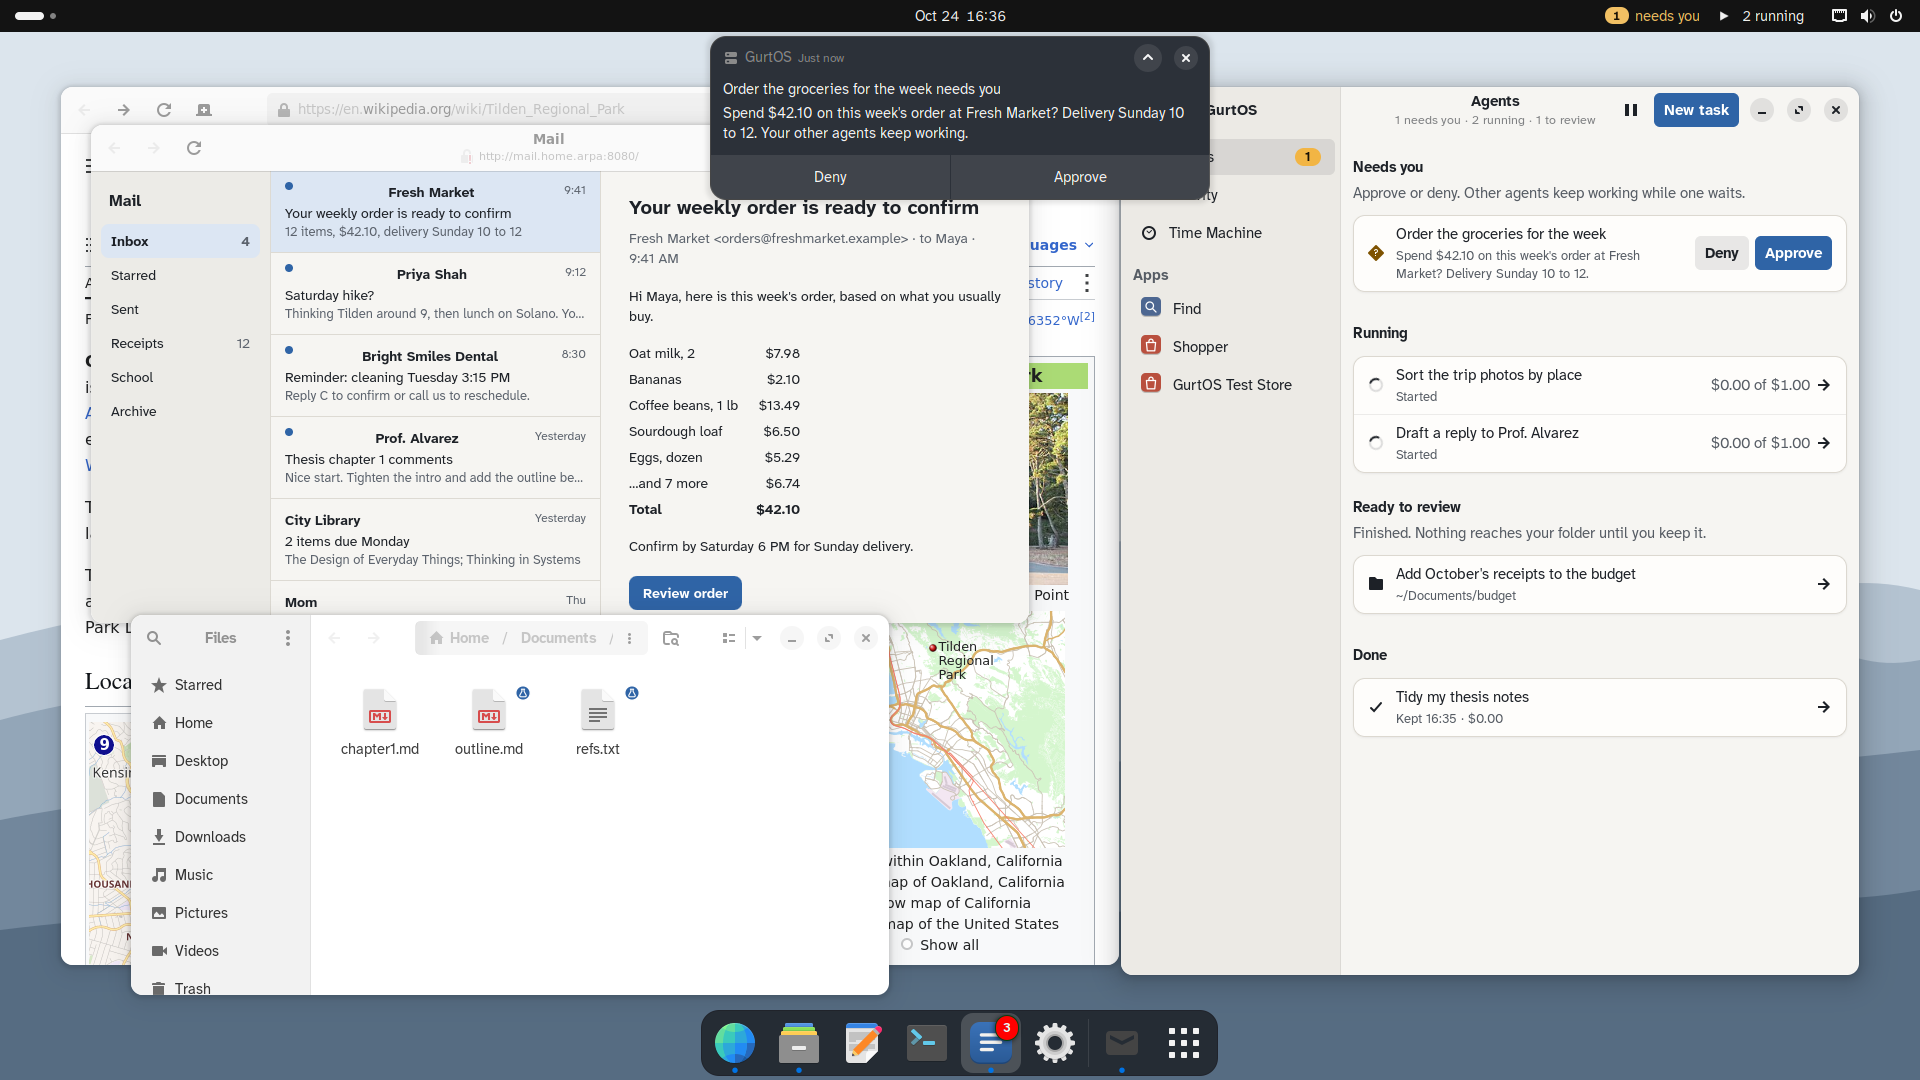
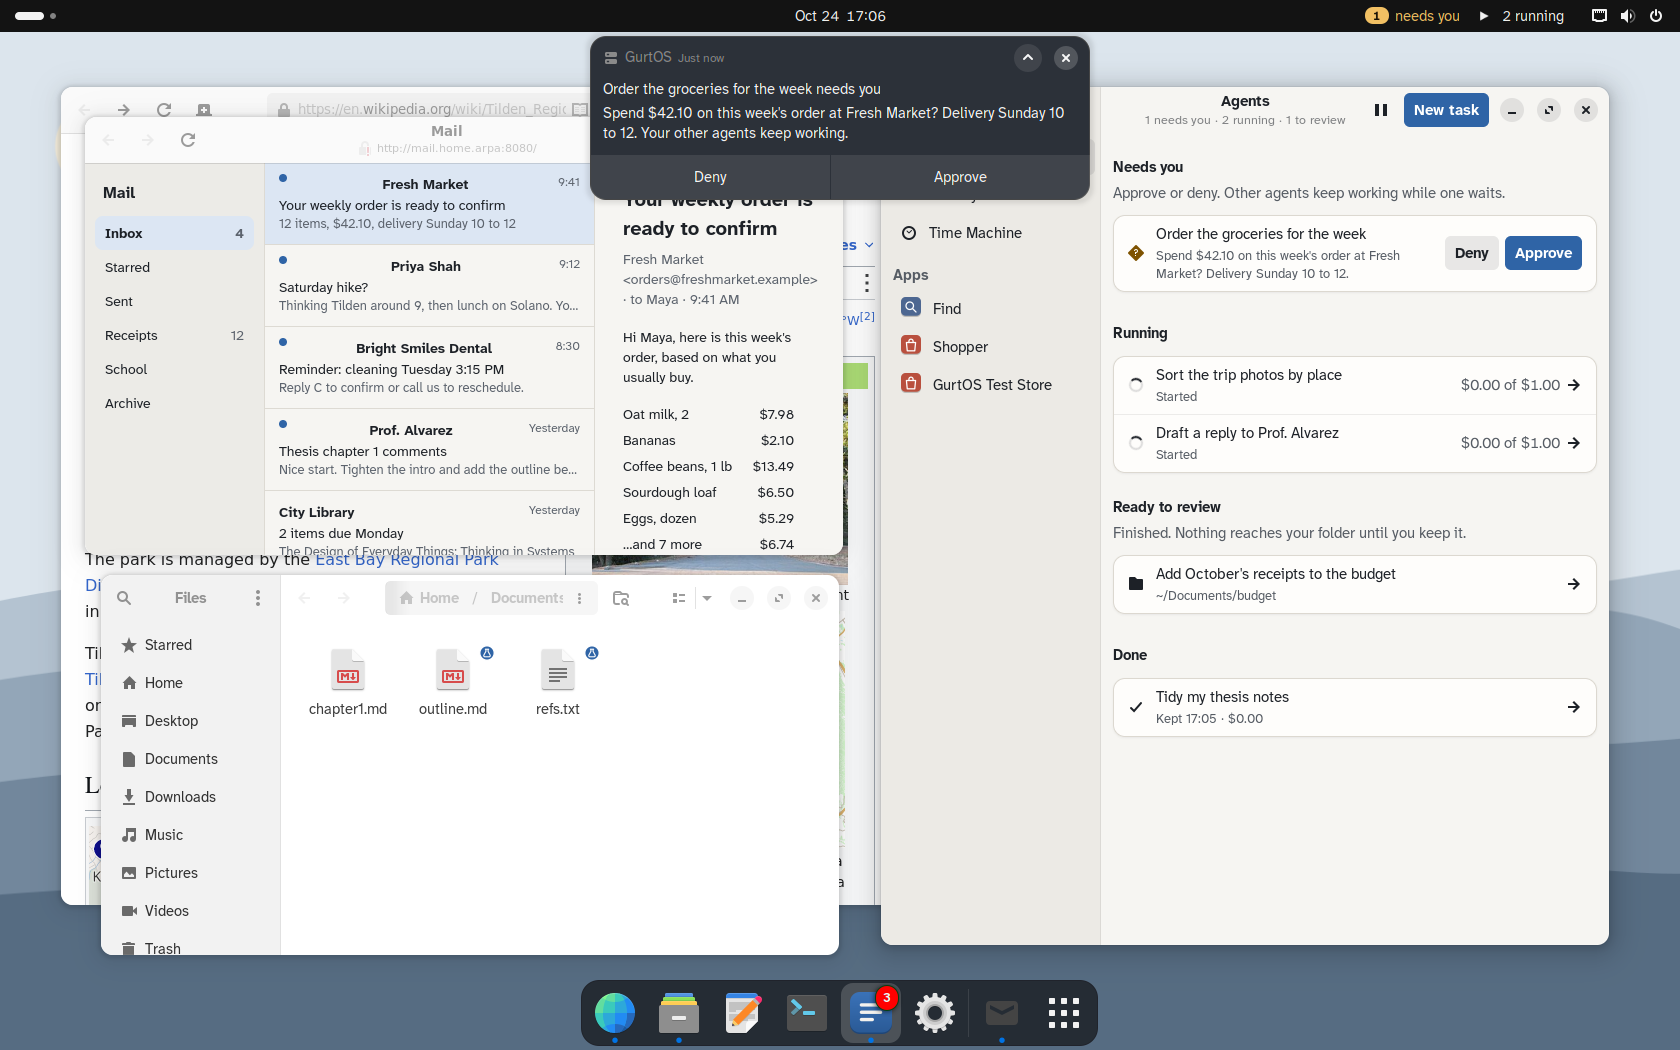
Personal: everyday screenshots at 1680x1050 (16:10), to fit the sites' display frame

diff --git a/personal/README.md b/personal/README.md
@@ -330,7 +330,7 @@ screens (people, rules, routed approvals, the audit trail) in the browser for no
 ## Screenshots for the sites (Oct 24, after the UX fixes)
 
 Taken on the Personal test VM from main, at 1920x1080, with invented demo data (a local demo inbox, never real mail):
-`screenshots/os/everyday.png` and `everyday-dark.png` (mail, a browser and Files with the GurtOS app, the top-bar pill
+`screenshots/os/everyday.png` and `everyday-dark.png` (1680x1050, 16:10 like the sites' display frame; mail, a browser and Files with the GurtOS app, the top-bar pill
 and a request banner), and in `screenshots/site/`: `approval.png` (a request banner and Needs you), `indicator.png` (the
 top-bar popover), `review.png` (a finished task with Keep changes and Undo task) and `files-menu.png` (Files' menu on a
 folder with changes waiting). They replace the site copies made from the older `setup/` and `install/` shots.
